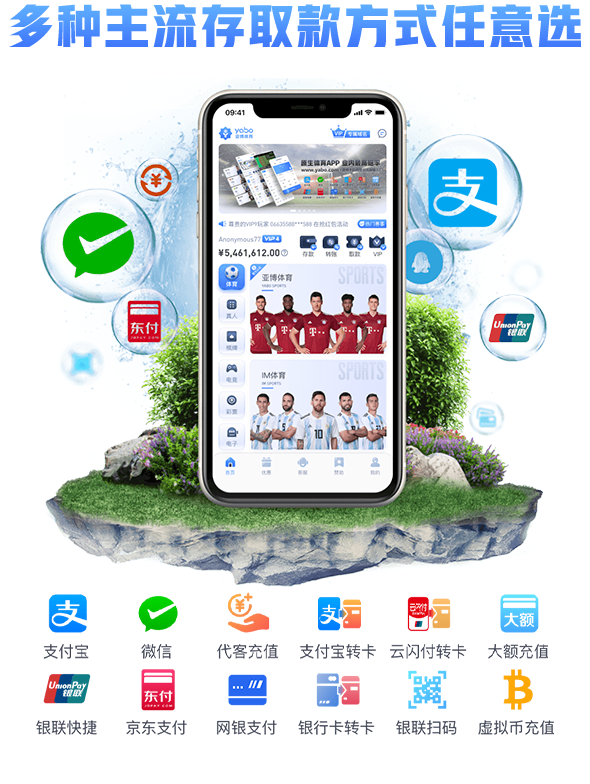
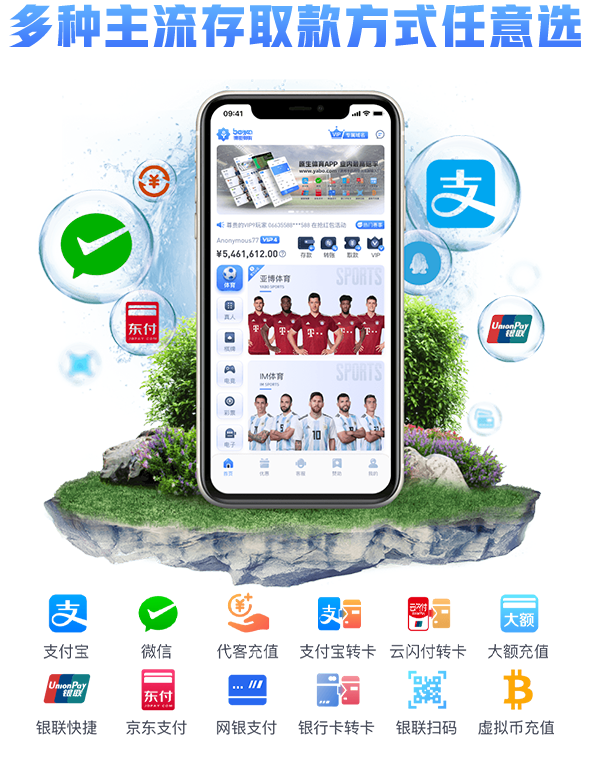
ybty

Changed region(s): [[0.061, 0.0918, 0.9458, 0.7653], [0.122, 0.4286, 0.1831, 0.4898]]

diff --git a/ybty/css/style.css b/ybty/css/style.css
@@ -48,7 +48,7 @@ body {
 }
 .scroller{
   width: 100%;
-  height: 32.45rem;
+  height: 32.08rem;
   background-image: url(../images/bg.png);
   background-size: 100% 100%;
   padding-top: 0.86rem;
@@ -133,7 +133,7 @@ body {
 }
 
 .mt-tabpage {
-  width: 7.81rem;
+  width: 100%;
   margin: 0 auto;
   display: flex;
   flex-direction: column;
@@ -141,17 +141,17 @@ body {
 }
 
 .mt-tabpage-title {
-  height: 0.43rem;
-  line-height: 0.43rem;
+  height: 0.5rem;
+  line-height: 0.5rem;
   margin: 0 auto;
   display: flex;
 }
 
 .mt-tabpage-title .mt-tabpage-item {
   display: inline-block;
-  margin: 0 0.05rem;
-  width: 1.03rem;
-  height: 0.43rem;
+  margin: 0 0.08rem;
+  width: 1.22rem;
+  height: 0.5rem;
   /* box-shadow: 0rem 0rem 0rem 0rem rgba(215, 227, 255, 0.67); */
   background-image: url(../images/button.png);
   background-size: 100% 100%;
@@ -177,7 +177,7 @@ body {
   height: 6.17rem;
   margin: 0 auto;
   position: relative;
-  margin-top: 0.28rem;
+  margin-top: 0.58rem;
 }
 
 #game .swiper-container {
@@ -198,7 +198,7 @@ body {
   width: 100%;
   position: absolute;
   left: 0;
-  top: 5.5rem;
+  top: 5.6rem;
 }
 
 .hotdesc{
@@ -254,5 +254,5 @@ body {
 
 .mt-tabpage .swiper-pagination-custom{
    top:0;
-   left: 0.51rem;
+   left: 0.88rem;
 }
